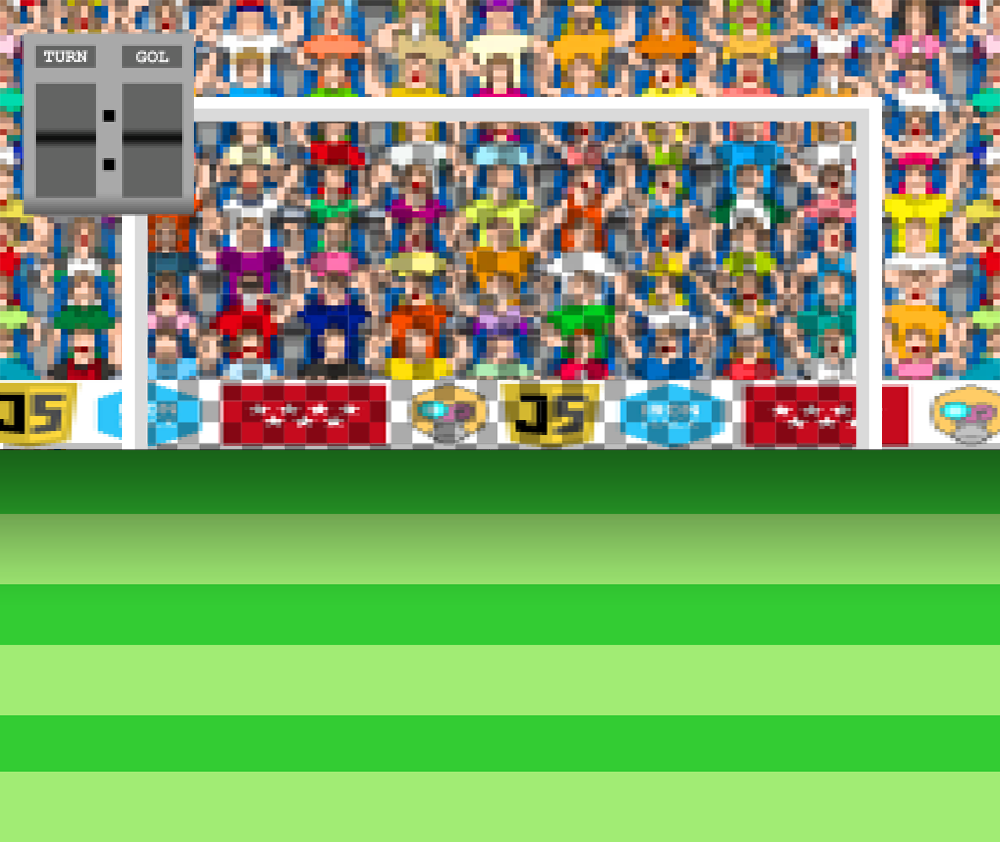
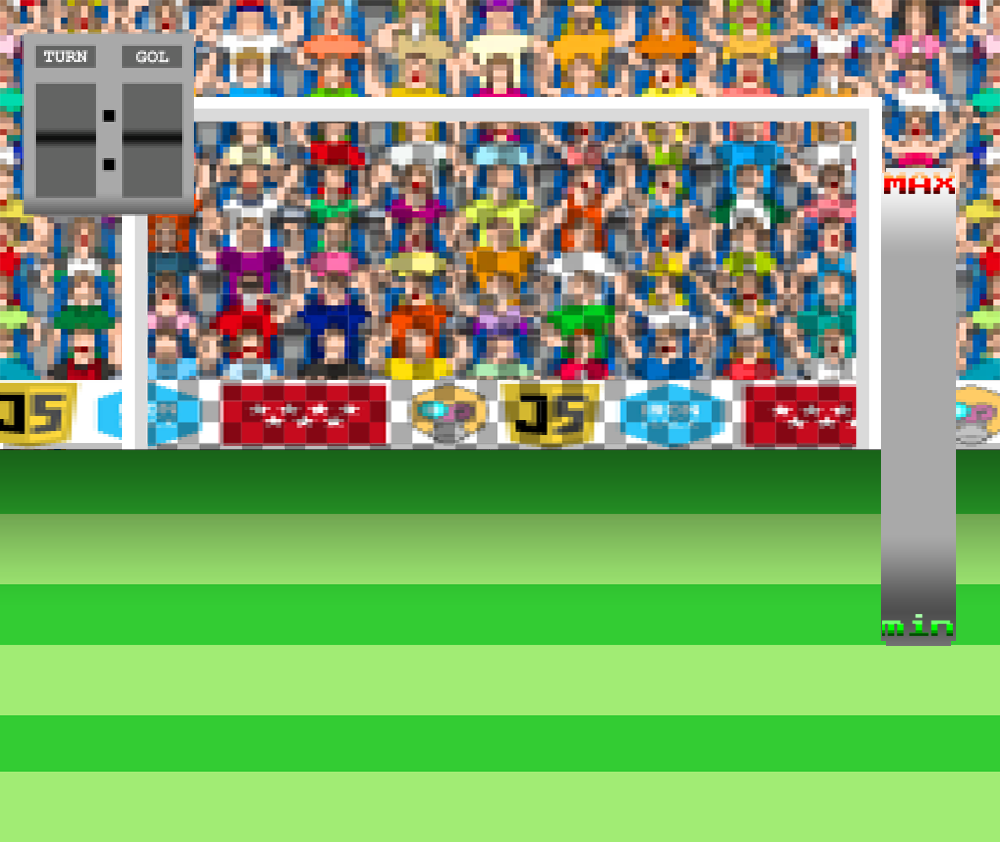
mas avances y barra de power creada

Changed region(s): [[0.868, 0.1853, 0.961, 0.772]]

diff --git a/javascript/game.js b/javascript/game.js
@@ -17,7 +17,7 @@ const game = {
     turnCounter: 1,
     bannerGol: undefined,
     bannerLoser: undefined,
-    direction: undefined,
+    power: undefined,
     keys: undefined,
     canShoot: false,
 
@@ -66,15 +66,15 @@ const game = {
         this.createBannerLoser()
         this.createScoreMarker()
         this.createTurnMarker()
-        this.createDirection()
+        this.createPower()
     },
 
     createBackground() {
         this.background = new Background(this.ctx, 0, 0, this.canvasSize.width, this.canvasSize.height, "bgmarc.png")
     },
 
-    createDirection() {
-        this.direction = new Direction(this.ctx, this.canvasSize, 150, 500, "upArrow.png", 80, 80, 50, this.speedX, this.speedY)
+    createPower() {
+        this.power = new Power(this.ctx, this.canvasSize, 700, 400, "powerBall.png", 80, 150, 0, -10)
     },
 
     createBall() {
@@ -87,11 +87,11 @@ const game = {
 
 
     createBannerGol() {
-        this.bannerGol = new Bannergol(this.ctx, this.canvasSize, 225, 235, "gol1.png", 375, 300)
+        this.bannerGol = new Bannergol(this.ctx, this.canvasSize, 185, 75, "GOL.png", 450, 450)
     },
 
     createBannerLoser() {
-        this.bannerLoser = new Bannerloser(this.ctx, this.canvasSize, 225, 235, "loser1.png", 375, 300)
+        this.bannerLoser = new Bannerloser(this.ctx, this.canvasSize, 185, 75, "LOSER.png", 450, 450)
     },
 
     createScoreMarker() {
@@ -113,12 +113,12 @@ const game = {
         this.drawBall()
         this.drawScoreMarker()
         this.drawTurnMarker()
-        this.drawDirection()
+        this.drawPower()
 
     },
 
-    drawDirection() {
-        this.direction.draw()
+    drawPower() {
+        this.power.draw()
 
     },
 
@@ -158,11 +158,11 @@ const game = {
     moveAll() {
         this.moveBall()
         this.moveGKeeper()
-        this.moveDirection()
+        this.movePower()
 
     },
-    moveDirection() {
-        this.direction.move()
+    movePower() {
+        this.power.move()
     },
 
     moveGKeeper() {
@@ -180,7 +180,6 @@ const game = {
     setListeners() {
         document.onkeydown = e => {
             console.log("presiono tecla", e.key)
-
             if (e.key === "ArrowRight" && this.canShoot) {
                 this.canShoot = false
                 this.checkCollision(this.ball.shootRight())
@@ -201,7 +200,7 @@ const game = {
     // },
 
     checkCollision(ballDirection) {
-        if (ballDirection === this.goalKeeper.randomItem()) {
+        if (ballDirection === this.goalKeeper.randomItem(ballDirection, this.power.posY)) {
             console.log('PARADON');
             this.showBanners('parada')
         } else {

diff --git a/javascript/goalkeeper.js b/javascript/goalkeeper.js
@@ -34,8 +34,19 @@ class Goalkeeper {
         this.init()
     }
 
-    randomItem() {
-        return this.throwArray[Math.floor(Math.random() * this.throwArray.length)]();
+    randomItem(ballDirection, power) {
+        const currentThrowArr = [...this.throwArray]
+
+        if (power < 300) {
+            if (ballDirection === "left") currentThrowArr.splice(1, 1)
+            if (ballDirection === "left") currentThrowArr.splice(1, 1)
+            if (ballDirection === "left") currentThrowArr.splice(1, 1)
+        }
+
+
+
+
+        return currentThrowArr[Math.floor(Math.random() * currentThrowArr.length)]();
     }
 
     throwRight = () => {
@@ -60,29 +71,29 @@ class Goalkeeper {
 
     draw() {
         this.ctx.drawImage(
-            this.imageInstance, 
+            this.imageInstance,
             // this.framesIndex * this.imageInstance.width / this.frames,  //inicio de recorte x
             // 0,                                                          //inicio de recorte y
             // this.imageInstance.width / this.frames,                     //ancho de recorte
             // this.imageInstance.height, 
-            this.posX, 
-            this.posY, 
-            this.width, 
+            this.posX,
+            this.posY,
+            this.width,
             this.height) //hay que rellenar con las speed
-            
-            
-    //     if (framesCounter % 10 === 0) {
-    //             this.animate()
-    //           }
-    //         }
-          
-    // animate() {
-    //     if (this.framesIndex === 2) {
-    //         this.framesIndex = 0
-    //         }
-    //     this.framesIndex++
-     }
-    
+
+
+        //     if (framesCounter % 10 === 0) {
+        //             this.animate()
+        //           }
+        //         }
+
+        // animate() {
+        //     if (this.framesIndex === 2) {
+        //         this.framesIndex = 0
+        //         }
+        //     this.framesIndex++
+    }
+
 
 
 

diff --git a/javascript/power.js b/javascript/power.js
@@ -1,4 +1,4 @@
-class Direction {
+class Power {
     constructor(ctx, canvasSize, posX, posY, imageName, width, height, speedX, speedY) {
         this.ctx = ctx
         this.canvasSize = canvasSize
@@ -29,14 +29,16 @@ class Direction {
 
     }
     move() {
-        //centerX: 360
-        //leftX:150
-        //right:570X
-        // this.speedX = 10
-        // console.log('mueve');
+        //hmin 400px
+        //hmax 100px
+        this.posY += this.speedY
+        console.log('mueve');
 
-        // if (this.posX > 150 && this.posX < 570) {
-        //     this.speedY = 0
-        // }
+        if (this.posY === 400) {
+            this.speedY *= -1
+        }
+        else if (this.posY === 100) {
+            this.speedY *= -1
+        }
     }
 }

diff --git a/index.html b/index.html
@@ -28,7 +28,7 @@
     <script src="/javascript/bannerLoser.js"></script>
     <script src="/javascript/scoreMarker.js"></script>
     <script src="/javascript/turnMarker.js"></script>
-    <script src="/javascript/direction.js"></script>
+    <script src="/javascript/power.js"></script>
     <script src="/javascript/index.js"></script>
 
 

diff --git a/styles/style.css b/styles/style.css
@@ -1,5 +1,15 @@
 body{
-    background-image: url(/img/bodyBG.png);
+    /* 
+    //FONDO DE GAME BOY
+    margin: 0;
+    padding: 0;
+    height: 100vh;
+    
+    background-image: url(/img/gbcBG.png);
+    background-repeat:no-repeat;
+    background-size:100% 100%; */
+
+    background-image: url('/img/bodyBG.png');
     
 }
 
